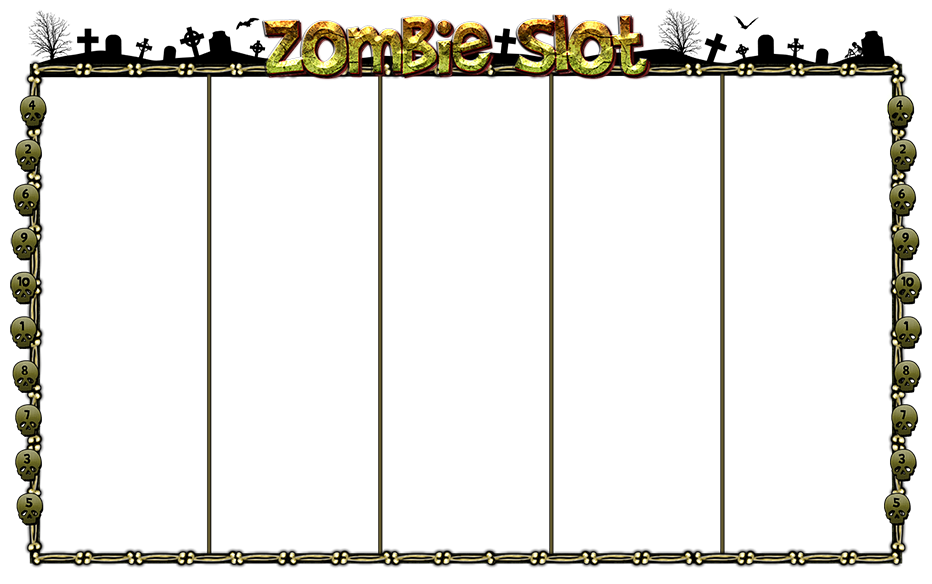
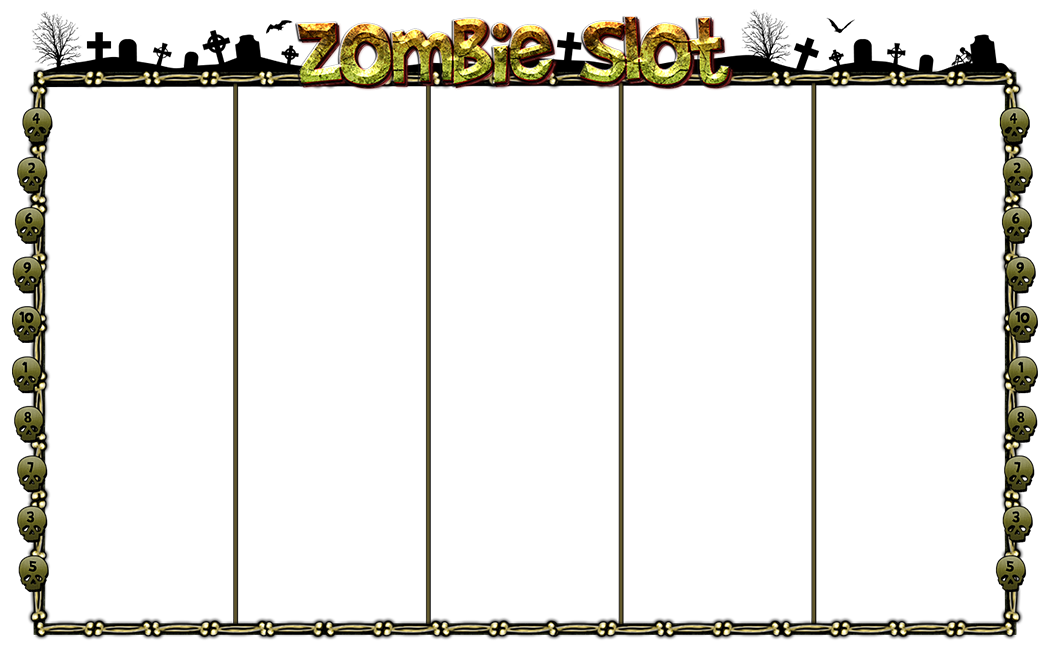
bg and buttons fix

diff --git a/markup/modules/Buttons/Buttons.js b/markup/modules/Buttons/Buttons.js
@@ -12,7 +12,7 @@ export let buttons = (function () {
 
         console.log(mainWidth);
 
-        spinButton = game.add.sprite(0, game.world.centerY * 0.9, 'mobileButtons', 'spin.png', container);
+        spinButton = game.add.sprite(0, game.world.centerY, 'mobileButtons', 'spin.png', container);
         spinButton.anchor.set(0.5);
         // spinButton.on('click', handleSpinClick);
 
@@ -27,12 +27,12 @@ export let buttons = (function () {
         spinButton.x = xRight;
 
         autoButton = game.add.sprite(xRight, 0, 'mobileButtons', 'auto.png', container);
-        autoButton.y = spinButton.y - spinButton.width / 2 - delta - autoButton.width / 2;
+        autoButton.y = spinButton.y - spinButton.width / 2 - 2 * delta - autoButton.width / 2;
         autoButton.anchor.set(0.5);
         // autoButton.on('click', handleAutoClick);
 
         betButton = game.add.sprite(xRight, 0, 'mobileButtons', 'setBet.png', container);
-        betButton.y = spinButton.y + spinButton.width / 2 + delta + betButton.width / 2;
+        betButton.y = spinButton.y + spinButton.width / 2 + 2 * delta + betButton.width / 2;
         betButton.anchor.set(0.5);
         // betButton.on('click', handleBetClick);
 

diff --git a/markup/modules/States/Main.js b/markup/modules/States/Main.js
@@ -33,7 +33,7 @@ export class Main {
     }
 
     drawMainContainer() {
-        let gameBG = this.add.sprite(0, 0, 'gameBG', null, this.mainContainer);
+        let gameBG = this.add.sprite(this.world.width * 0.036, this.world.height * 0.1, 'gameBG', null, this.mainContainer);
         let gameMachine = this.add.sprite(0, 0, 'gameMachine', null, this.mainContainer);
 
     }
